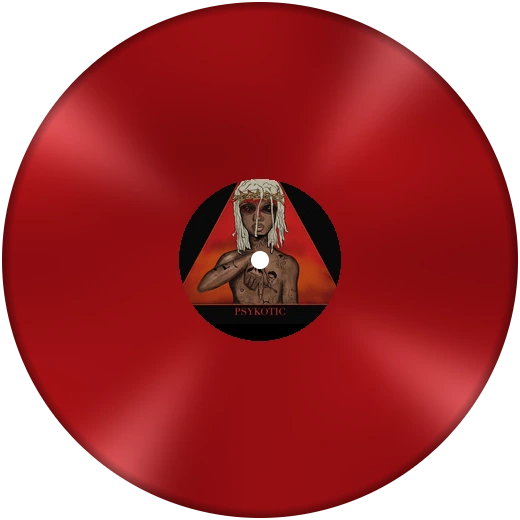
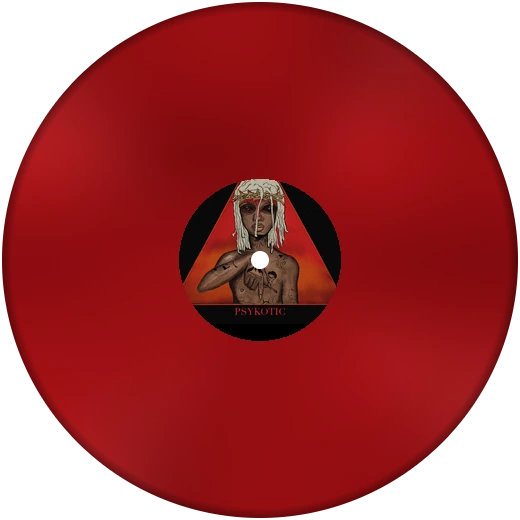
psykotic : reflet du disque adouci

diff --git a/index.html b/index.html
@@ -4077,7 +4077,7 @@ var ALBUMS = [
   /* « psykotic », d OsamaSon : climat a lui (alb-psy). Vinyle rouge uni,
      la pochette en etiquette, remontee pour que l axe tombe sur la poitrine. */
   { title:'psykotic', by:'OsamaSon', theme:'psy',
-    disc:'assets/disc6.webp', cover:'assets/cover6.jpg', thumb:'assets/alb6.jpg',
+    disc:'assets/disc6.webp?v=2', cover:'assets/cover6.jpg', thumb:'assets/alb6.jpg',
     art:'assets/trk6.jpg', artFill:true,
     start:0,                                  /* Habits ouvre l album */
     tracks: A6 }
